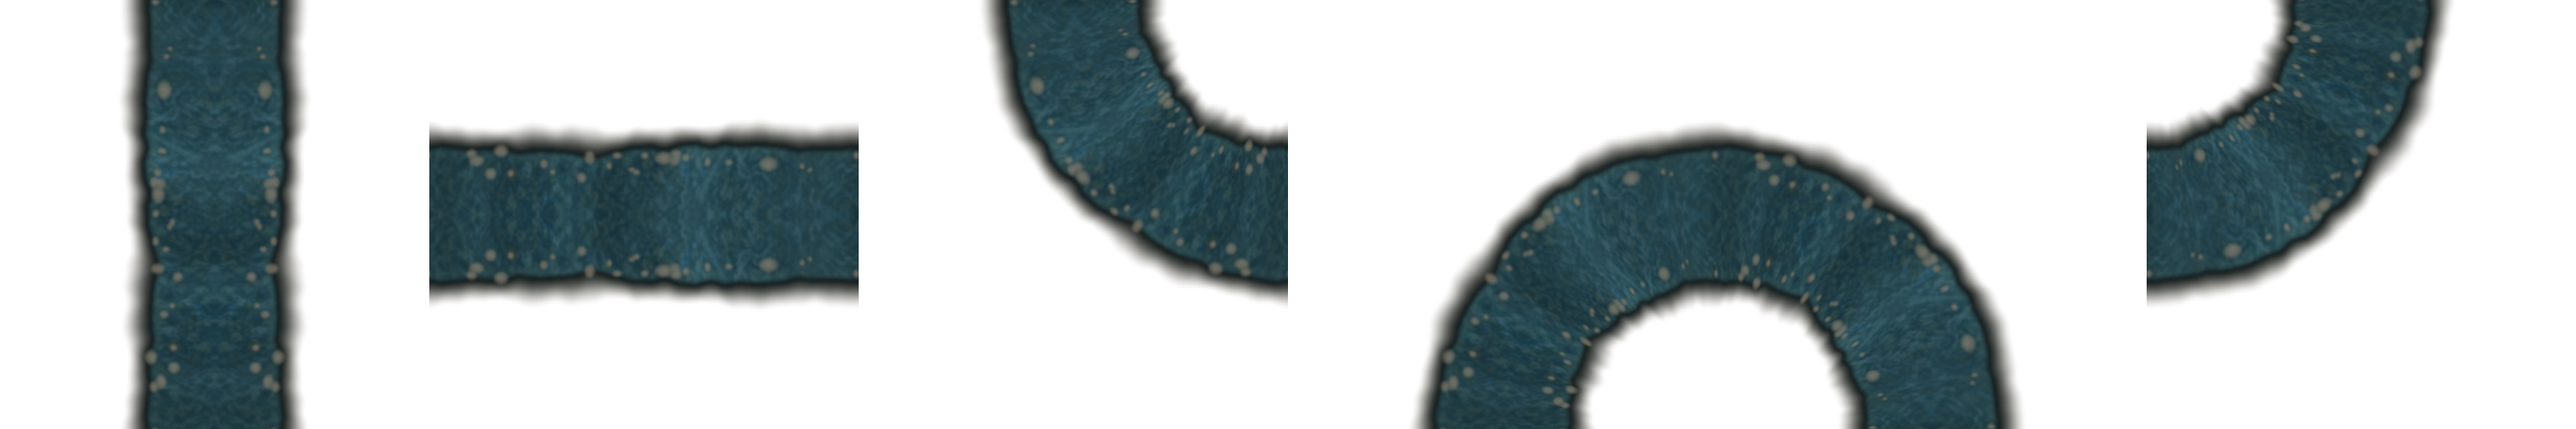
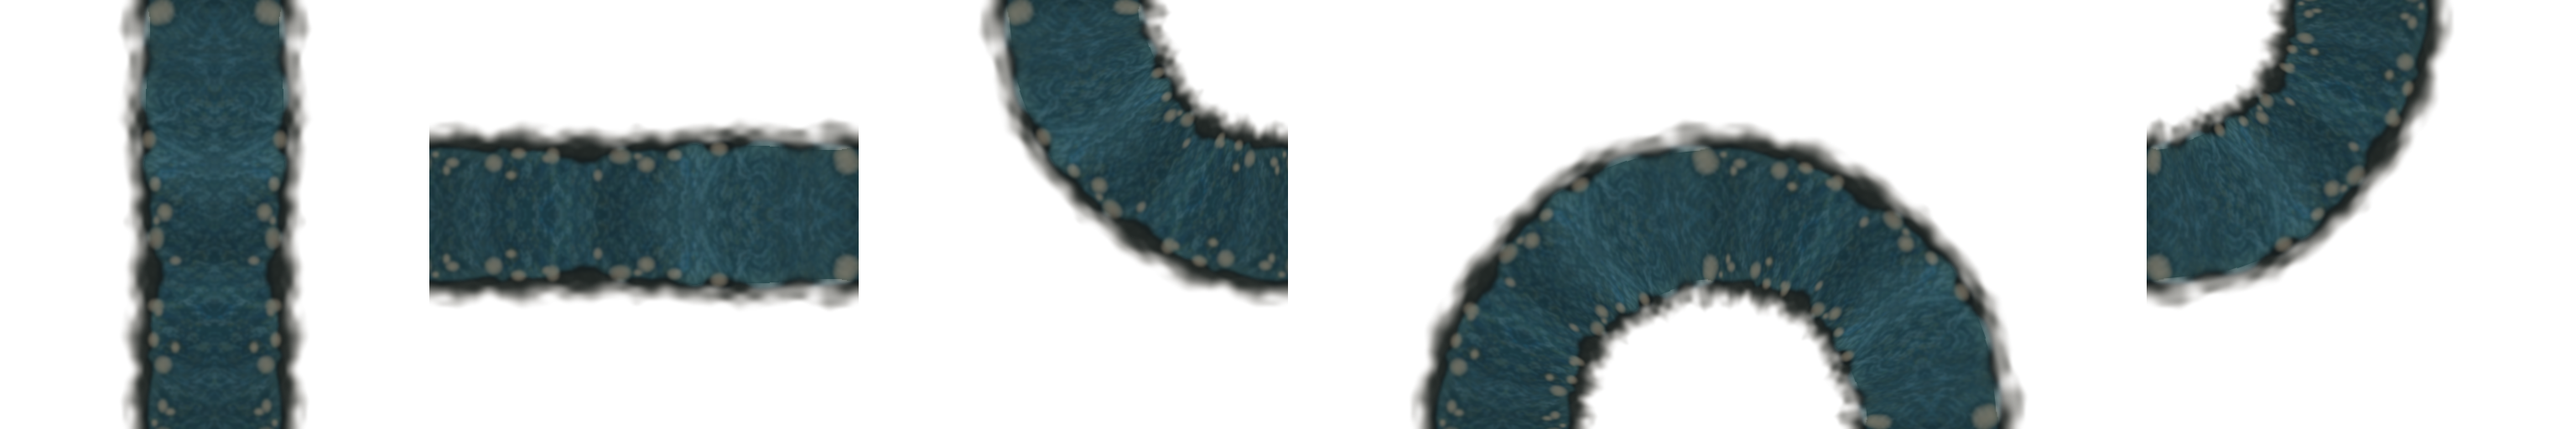
map-editor/Phase6-3: 水際の輪郭をほつれさせて「管」の読みをさらに崩す
・EDGE_FRAY / WATERLINE_FRAY を新設。α の外縁と「見た目の水際」を 2D 細粒ノイズで
  崩し、「定規で引いた輪郭 = 管の縁」という読みを消す。α は w1 のままなので
  不透明幅・中心・PROBE・CENTER_TOL は 1px も動かない (幾何は無改変)。
・小石を (3.0,9.5)/N24 → (4.0,16.0)/N18 へ拡大。旧値は表示 1.1〜3.6px で縮小に
  溶けて見えておらず、大きい数個だけが孤立した点 = リベットに見えていた。
・⛔ うねりの振幅を上げるのは逆効果と 6倍 NEAREST で実測。うねりは s だけの関数
  なので左右が同時に太る = ソーセージになる。周波数を上げる案も表示 Nyquist で
  頭打ちになり効かない。どちらもコメントに実測付きで残した。

検証: waterkit 138/138 + 既存9本 941/941 + 変異6種 31/6/7/35/3/1 (前回と同一)
golden の game-goblin-mine は不変 = 既定6シナリオは1ドットも変わっていない

diff --git a/tavern.html b/tavern.html
@@ -1984,7 +1984,7 @@
     <div id="changelogBox">
       <div class="changelogHeader">📜 更新情報</div>
       <ul class="changelogList">
-        <li><b>マップ作りの水の流れをリアルな見た目に</b> — 管のように塗られていたのをやめ、横向きに走る波紋と、両岸の水際に散る小石で浅い流れらしく描き直した。</li>
+        <li><b>マップ作りの水の流れをリアルな見た目に</b> — 管のように塗られていたのをやめ、横向きに走る波紋・でこぼこにほつれた水際・岸に散る小石で、地面に掘れた浅い流れらしく描き直した。</li>
         <li><b>マップ作りに「水の流れ」を追加</b> — 川や水路を線路と同じようにつなげて引けるようになった。</li>
         <li><b>つながる線路を敷けるように</b> — マップ作りで縦・横・カーブの線路をつなげて敷けるようになった。線路の上は歩ける。</li>
         <li><b>自作マップに石柱・机・椅子・壊れた馬車を置けるように</b> — マップエディタの情景物パレットに4種12個を追加。柱や机の上はキャラが通れなくなる。</li>

diff --git a/tools/make_water_kit.py b/tools/make_water_kit.py
@@ -168,9 +168,16 @@ COL_GLINT = (146.0, 186.0, 184.0)   # 波頭のきらめき
 #    ⛔ offset を岸側 (正) へ伸ばすな (α が薄い岸に乗ると茶床に沈んで灰色の点になる)
 #    ⛔ 水中側に**広く**散らすこと。狭くすると石が縁に一列に並んで
 #      今度は「明るい輪」= やはり円柱のハイライトに見える
-PEBBLE_N = 24                 # 1 セル (= 512 素材px = 表示 96px) あたりの個数
-PEBBLE_R = (3.0, 9.5)         # 半径 (素材px)。3.4〜10.6cm の砂利に相当
+PEBBLE_N = 18                 # 1 セル (= 512 素材px = 表示 96px) あたりの個数
+PEBBLE_R = (4.0, 16.0)        # 半径 (素材px)。表示 1.5〜6.0px = 24〜95cm の石
+                              #   ⚠ 2026-08-05 に (3.0, 9.5) から拡大した。旧値は
+                              #     表示 1.1〜3.6px で **縮小に溶けてほとんど見えず**、
+                              #     大きい数個だけが孤立した点 = リベットに見えていた。
+                              #   ⛔ これ以上増やす (N30 R5-13 / N42 R4-11) と石が
+                              #     **連なって「明るい輪」**になり円柱のハイライトへ逆戻り (実測)。
 PEBBLE_OFFSET = (-30.0, 3.0)  # 水際 w1 からのずれ。負 = 水中側 / 正 = 岸側
+                              #   ⛔ 岸側 (正) を 10 以上に伸ばすと石が縁に並んで
+                              #     やはり「輪」になる (2026-08-05 に 10 / 13 で実測)
 PEBBLE_MIX = 0.75             # 石の面の混ぜ量
 PEBBLE_SUBMERGED = 0.95       # 水中の石は水を透かすので少しだけ淡くする倍率
 PEBBLE_SHADE = 0.10           # 接地の暗い輪 (⛔ 上げるとリベットになる)
@@ -184,11 +191,51 @@ COL_PEBBLE = (138.0, 128.0, 110.0)  # 濡れた小石 (明るい灰褐色)
 #    ⚠ ここを動かすと --check-only の期待表 (中点 ±水面幅/2) も一緒に動く。
 WATER_HALF = 80.0
 EDGE_HALF = 110.0
-WOBBLE_MAX = 14.0             # 岸の輪郭のゆらぎ (定規で引いた直線にしないため)
+# ⚠⚠ うねりの振幅は **w1 (水面の縁) と w2 (岸の外縁) で別の定数**にしてある。
+#   w1 は α=255 の帯を決めるので PROBE と連動する (上げたら PROBE を必ず見直す)。
+#   w2 は α が 1→0 に落ちる外側だけを動かすので **PROBE には一切影響しない**
+#   ＝ 岸の輪郭は w1 を触らずに好きなだけ崩せる。動くのは ink_lo/ink_hi だけ。
+WOBBLE_MAX = 14.0             # 水面の縁 w1 のゆらぎ (⚠ PROBE と連動)
+BANK_WOBBLE_MAX = 14.0        # 岸の外縁 w2 のゆらぎ (PROBE に無関係)
+# ⛔⛔ **うねりの振幅を上げてはいけない** (2026-08-05 に 14/20/26/34 を 6倍 NEAREST で実測)。
+#   うねりは s だけの関数なので **左右が同時に太り、同時に括れる** ＝ 幅の変動が
+#   そのまま「膨らみと括れ」になり、**ソーセージ (連結した管) に見えて逆効果**。
+#   振幅に比例して悪化した (34 が最悪)。低周波に寄せる (5,11,23) のも同じ理由で改悪。
+# ⚠⚠ かといって「細かく波打たせる」も効かない。octave の格子数は **表示 Nyquist で
+#   頭打ち**になるため: 表示倍率 96/512=0.1875 なので cells=N の周期は 96/N 表示px。
+#   **cells 24 で 4 表示px** が実用下限、cells 48 以上 (2 表示px 以下) は縮小で
+#   完全に平均化され **1 ドットも効かない**。
+# ⭐ ＝ **ミラー対称の制約下では「輪郭線をうねらせて管を消す」ことは原理的に不可能**。
+#   輪郭を崩すのは下の EDGE_FRAY (α の外縁を 2D 細粒でほつれさせる) が担当する。
+WATER_OCTAVES = ((5, 0.50), (13, 0.32), (29, 0.18))
+BANK_OCTAVES = ((7, 0.48), (17, 0.34), (31, 0.18))
 WATERLINE_SIG = 3.6           # 水際の暗線の幅 (素材 px。表示で約 1.4px)
 WATERLINE_DEPTH = 0.55        # 暗線の濃さ (0 = 無し / 1 = COL_WATERLINE そのもの)
 SHALLOW_FROM = 0.74           # q(=|d|/w1) がこれを超えたら浅瀬の明るみを混ぜる
 SHALLOW_MIX = 0.34            # 浅瀬の混ぜ量 (大きくすると断面が再び「管」に近づく)
+
+# ── ⭐⭐ 岸の外縁の「ほつれ」(2026-08-05)。輪郭線を消すための唯一の手 ──────────
+#    岸を横切る進み p (0=水際 / 1=完全透明) に **2 次元の細粒ノイズ**を足して
+#    α の等値線を崩す。輪郭が「定規で引いた線」でなくなるので管の縁に読めない。
+#    ⭐ うねり (幅の変動) との決定的な違い: うねりは s だけの関数なので左右が
+#      **同時に**太り「ソーセージ」になるが、ほつれは 2〜5 表示px の粒なので
+#      **鏡像であることが目で判別できない** = 同期した膨らみに読めない
+#      (GRAIN・チェブロン波紋と同じ「対称でも人工的に見えない」構造)。
+#    ⚠ p を動かすので **α の外縁位置が動く** = report_edges の水路幅 (ink) が広がる。
+#      ink_lo/ink_hi は EDGE_FRAY から自動で計算してある。不透明幅 (op) と中心は
+#      w1 側だけで決まるので **1px も動かない** = PROBE も CENTER_TOL も無関係。
+#    ⚠ s 方向の格子数は周期 CELL でループするので継ぎ目は安全。u 方向は clamp。
+EDGE_FRAY_OCT = ((14, 12, 0.55), (29, 26, 0.45))  # (s 格子, u 格子, 重み)
+EDGE_FRAY = 0.42              # p に足す振幅。岸幅 30px の 42% = ±12.6 素材px
+# ⭐⭐⭐ **見た目の輪郭は w2 (茶床との境界) ではなく w1 (青と岸の境界 + 水際の暗線)**。
+#    2026-08-05 の実測で判明: w2 だけほつれさせても青い帯は一定幅の直線のままで、
+#    「管」の読みが残った。そこで **色の境界だけを同じほつれで崩す** ことにした。
+#    ⭐ w1e は `np.where(u <= w1e, water, bank)` と水際の暗線にしか使わない。
+#      **α は今までどおり w1 で決まる** ので不透明幅・中心・PROBE・CENTER_TOL は
+#      1px も動かない = 幾何を一切触らずに絵の輪郭だけを壊せる (これが要点)。
+#    ⚠ 水面側に泥が、岸側に水が斑点として食い込むが、これは浅瀬・泥だまりとして
+#      正しく読める (むしろ「掘れた流れ」の手がかりになる)。
+WATERLINE_FRAY = 14.0         # 見た目の水際 w1e のほつれ幅 (素材px。表示 ±2.6px)
 
 PX_CM = 2.982                 # 物差し: キャラ体高 57px = 1.70m → 1px ≒ 2.98cm
 TILE_PX = 96                  # 本編/エディタのタイル (= displayMax)
@@ -210,11 +257,13 @@ OPPOSITE = {"N": "S", "S": "N", "E": "W", "W": "E"}
 # ── 検算のしきい値 ────────────────────────────────────────────────────────
 OPAQUE = 250                  # 「不透明」とみなす α
 PROBE = 60.0                  # 中点 ±PROBE に不透明画素があること
-                              #   = 水面幅/2 (80) からゆらぎ (14) と余裕 (6) を引いた値
+                              #   = 水面幅/2 (80) から **w1 の** ゆらぎ (WOBBLE_MAX 14) と
+                              #     余裕 (6) を引いた値。BANK_WOBBLE_MAX とは無関係。
 CENTER_TOL = 2.0              # 不透明帯の中心が辺の中点からずれてよい量 (px)
-OPAQUE_SHOULDER = 12          # α>=OPAQUE の帯は水面より少しはみ出す。その許容幅。
+OPAQUE_SHOULDER = 16          # α>=OPAQUE の帯は水面より少しはみ出す。その許容幅。
                               #   α は w1 の外側で 255*(1-smooth(p)) と落ちるので
-                              #   250 に達するのは w1 + 0.081*(w2-w1) 付近 = 片側最大 5px。
+                              #   250 に達するのは w1 + 0.082*(w2-w1) 付近。
+                              #   w2-w1 の最大 = (110+26)-(80-14) = 70 → 片側 5.7 = 両側 11.4。
 # ⚠⚠ 継ぎ目は **α (幾何) と RGB (絵) を分けて測る**。旧版は RGBA をまとめた max 1 つで
 #    測っていたが、AI の筆致テクスチャでは **1 行ぶんの絵の変化だけで max が 79** になり、
 #    しかも「ループ化を切る」負のコントロールの方が max 27 と小さくなった (実測)。
@@ -291,16 +340,18 @@ def _along(rng: random.Random, s: np.ndarray, octaves) -> np.ndarray:
     return acc / max(norm, 1e-9)
 
 
-def _wobble(rng: random.Random, s: np.ndarray, octaves) -> np.ndarray:
-    """(格子数, 振幅比) の列から ±WOBBLE_MAX に収まるうねりを合成する。
+def _wobble(rng: random.Random, s: np.ndarray, octaves, wmax: float) -> np.ndarray:
+    """(格子数, 振幅比) の列から ±wmax に収まるうねりを合成する。
 
-    ⚠ 高周波の octave が要る。接続辺は必ず s=0/512 なので **幅は全継ぎ目で同一**
+    ⚠ 中域の octave が要る。接続辺は必ず s=0/512 なので **幅は全継ぎ目で同一**
       になり、低周波だけだと 1 タイルに 1 個の膨らみ = 数珠つなぎに見える。
+    ⚠⚠ ただし cells を上げても表示 Nyquist で頭打ちになる (BANK_OCTAVES の注)。
+      「もっと細かく」は効かないので、崩したいときは wmax を上げること。
     """
     acc = np.zeros_like(s)
     for cells, ratio in octaves:
-        acc += (WOBBLE_MAX * ratio) * (2.0 * _noise1(rng, s, cells) - 1.0)
-    return np.clip(acc, -WOBBLE_MAX, WOBBLE_MAX)
+        acc += (wmax * ratio) * (2.0 * _noise1(rng, s, cells) - 1.0)
+    return np.clip(acc, -wmax, wmax)
 
 
 def _pebbles(rng: random.Random, s: np.ndarray, u: np.ndarray,
@@ -483,8 +534,8 @@ def build_source() -> np.ndarray:
 
     # 岸の輪郭のうねり。水面の縁と岸の外縁で **別のノイズ** を使う (完全な相似形に
     # すると「一定断面を押し出した管」に見えるため)。どちらも周期 CELL。
-    w1 = WATER_HALF + _wobble(rng, s, ((5, 0.50), (13, 0.32), (29, 0.18)))
-    w2 = EDGE_HALF + _wobble(rng, s, ((7, 0.48), (17, 0.34), (31, 0.18)))
+    w1 = WATER_HALF + _wobble(rng, s, WATER_OCTAVES, WOBBLE_MAX)
+    w2 = EDGE_HALF + _wobble(rng, s, BANK_OCTAVES, BANK_WOBBLE_MAX)
     w2 = np.maximum(w2, w1 + 6.0)          # 岸が水面へ食い込まないための下限
 
     # AI テクスチャの平均色を COL_WATER へ寄せる。**偏差はそのまま残す** ので
@@ -523,15 +574,28 @@ def build_source() -> np.ndarray:
     water = water + (np.asarray(COL_GLINT, dtype=np.float64) - water) \
         * (GLINT_MIX * crest)[:, :, None]
 
+    # ⭐⭐ 岸の外縁のほつれ。p を 2D 細粒で崩すと α の等値線がぐにゃぐにゃになり、
+    #     「定規で引いた輪郭」= 管の縁という読みが消える (EDGE_FRAY の設計メモ参照)。
+    #     ⚠ rng の消費はここ。_pebbles より前・波紋より後 (順序を変えると絵が変わる)。
+    fray = np.zeros_like(u)
+    fnorm = 0.0
+    for cs, cu, ratio in EDGE_FRAY_OCT:
+        fray += ratio * (2.0 * _noise2(rng, s, u, cs, cu) - 1.0)
+        fnorm += ratio
+    fray = fray / max(fnorm, 1e-9)              # [-1, +1] 目安
+
     # 岸: 濡れた泥 → 乾いた泥。α は 1 → 0。
-    p = np.clip((u - w1) / (w2 - w1), 0.0, 1.0)
+    p = np.clip((u - w1) / (w2 - w1) + EDGE_FRAY * fray, 0.0, 1.0)
     bank = _lerp3(COL_WET, COL_BANK, _smooth(p)) * (1.0 + 0.26 * lum)[:, :, None]
 
-    rgb = np.where((u <= w1)[:, :, None], water, bank)
+    # ⭐⭐ **見た目の**水際。α は w1 のままなので幾何は 1px も動かない
+    #     (WATERLINE_FRAY の設計メモ参照)。青い帯の縁が直線でなくなるのが要点。
+    w1e = w1 + WATERLINE_FRAY * fray
+    rgb = np.where((u <= w1e)[:, :, None], water, bank)
 
     # ⭐ 水際の細い暗線。**リアルに見えるかどうかの主役**なので水側/岸側の
     #    両方にまたがって当てる (実際の水縁は濡れて暗く落ちる)。
-    line = np.exp(-(((u - w1) / WATERLINE_SIG) ** 2))
+    line = np.exp(-(((u - w1e) / WATERLINE_SIG) ** 2))
     rgb = rgb + (np.asarray(COL_WATERLINE, dtype=np.float64) - rgb) \
         * (WATERLINE_DEPTH * line)[:, :, None]
 
@@ -546,8 +610,11 @@ def build_source() -> np.ndarray:
 
     rgb = _prefilter_rgb(rgb)          # 見えない高域を落として PNG を小さくする
 
+    # ⚠ 旧版にあった `alpha = np.where(u <= w2, alpha, 0.0)` は **削除した**。
+    #   p は u が大きくなれば必ず 1 へクランプされて α=0 になるので冗長なうえ、
+    #   残すと w2 でシャープに切られて **ほつれが外側へ出られない** (無意味になる)。
+    #   セル西端が透明であること (_verify_source の far チェック) は p のクランプが保証する。
     alpha = np.where(u <= w1, 255.0, 255.0 * (1.0 - _smooth(p)))
-    alpha = np.where(u <= w2, alpha, 0.0)
     rgb = np.where((alpha > 0.0)[:, :, None], rgb, 0.0)
 
     out = np.empty((CELL, CELL, 4), dtype=np.float64)
@@ -708,9 +775,12 @@ def report_edges(sheet: np.ndarray) -> bool:
     lo_i = int(round(mid - PROBE))
     hi_i = int(round(mid + PROBE))
     op_lo = 2.0 * (WATER_HALF - WOBBLE_MAX) - 4.0                    # 132 - 4 = 128
-    op_hi = 2.0 * (WATER_HALF + WOBBLE_MAX) + OPAQUE_SHOULDER        # 188 + 12 = 200
-    ink_lo = 2.0 * (EDGE_HALF - WOBBLE_MAX) - 4.0                    # 192 - 4 = 188
-    ink_hi = 2.0 * (EDGE_HALF + WOBBLE_MAX) + 4.0                    # 248 + 4 = 252
+    op_hi = 2.0 * (WATER_HALF + WOBBLE_MAX) + OPAQUE_SHOULDER        # 188 + 16 = 204
+    # ⚠ 水路幅は **BANK_WOBBLE_MAX** と **EDGE_FRAY** で決まる (w1 の WOBBLE_MAX ではない)。
+    #   ほつれは α を外へ広げも内へ引っ込めもするので両側に見込む。
+    fray_px = EDGE_FRAY * (EDGE_HALF - WATER_HALF)                   # 0.42 * 30 = 12.6
+    ink_lo = 2.0 * (EDGE_HALF - BANK_WOBBLE_MAX - fray_px) - 4.0     # 166.8 - 4 = 162.8
+    ink_hi = 2.0 * (EDGE_HALF + BANK_WOBBLE_MAX + fray_px) + 4.0     # 301.2 + 4 = 305.2
 
     print(f"  期待: 接続辺 = 中点{mid:.1f} ±{PROBE:.0f} が α>={OPAQUE} / "
           f"不透明幅 {op_lo:.0f}..{op_hi:.0f} / 水路幅 {ink_lo:.0f}..{ink_hi:.0f} / "
